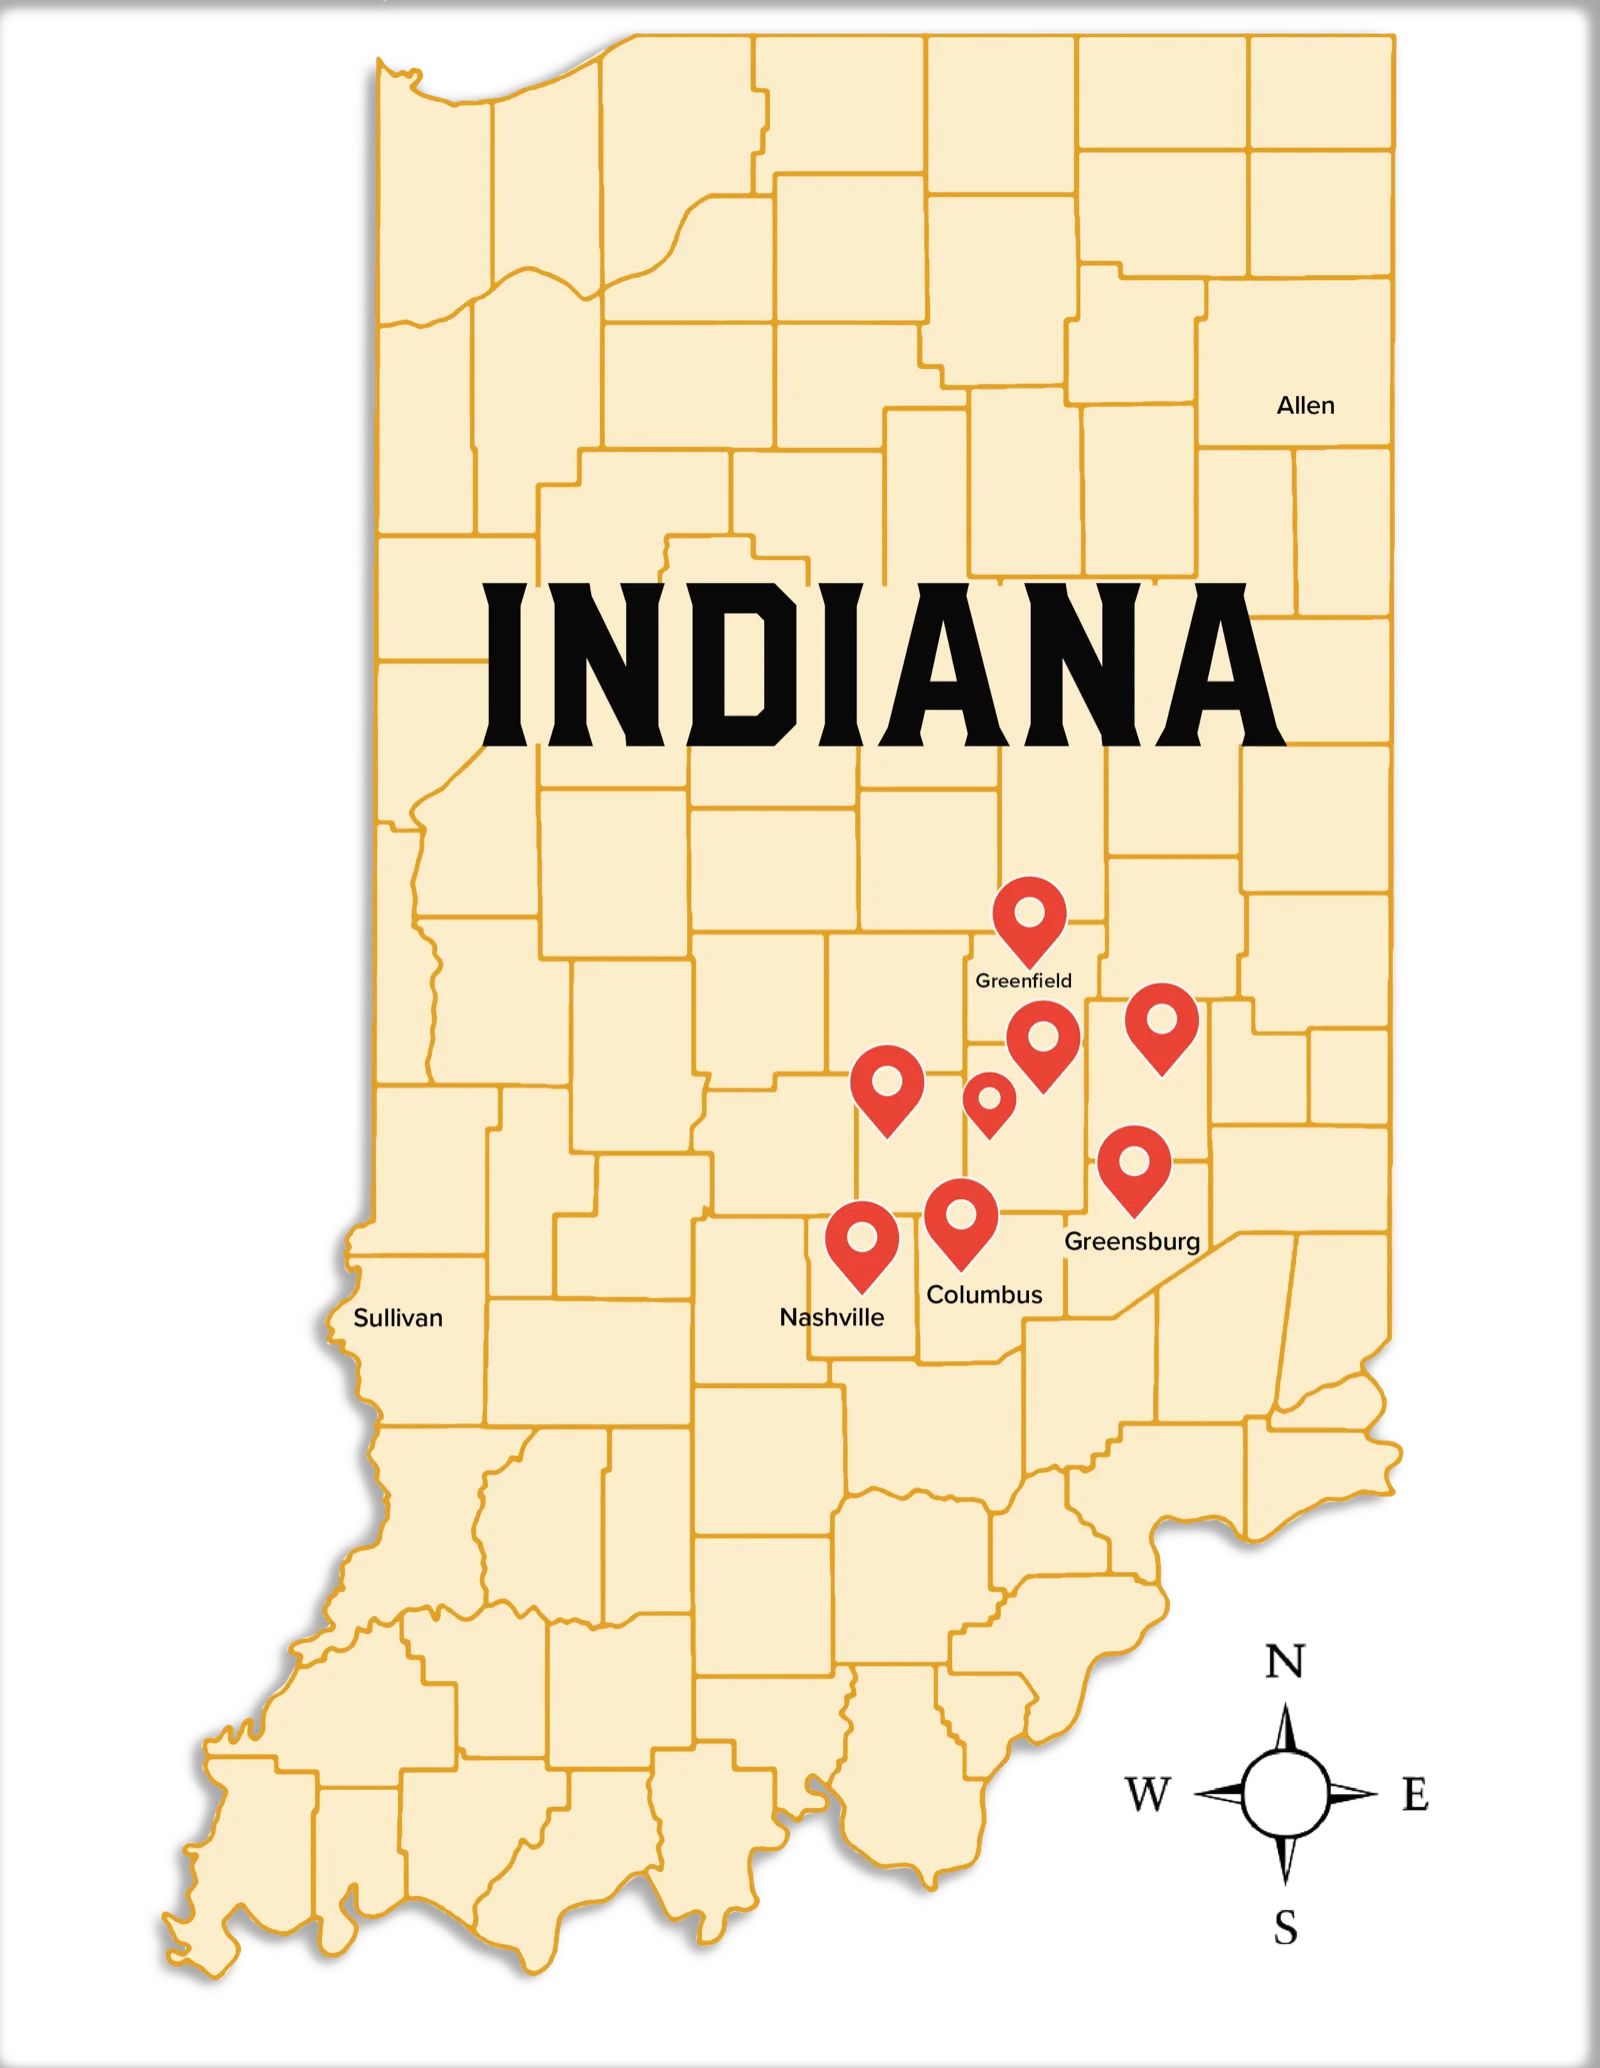
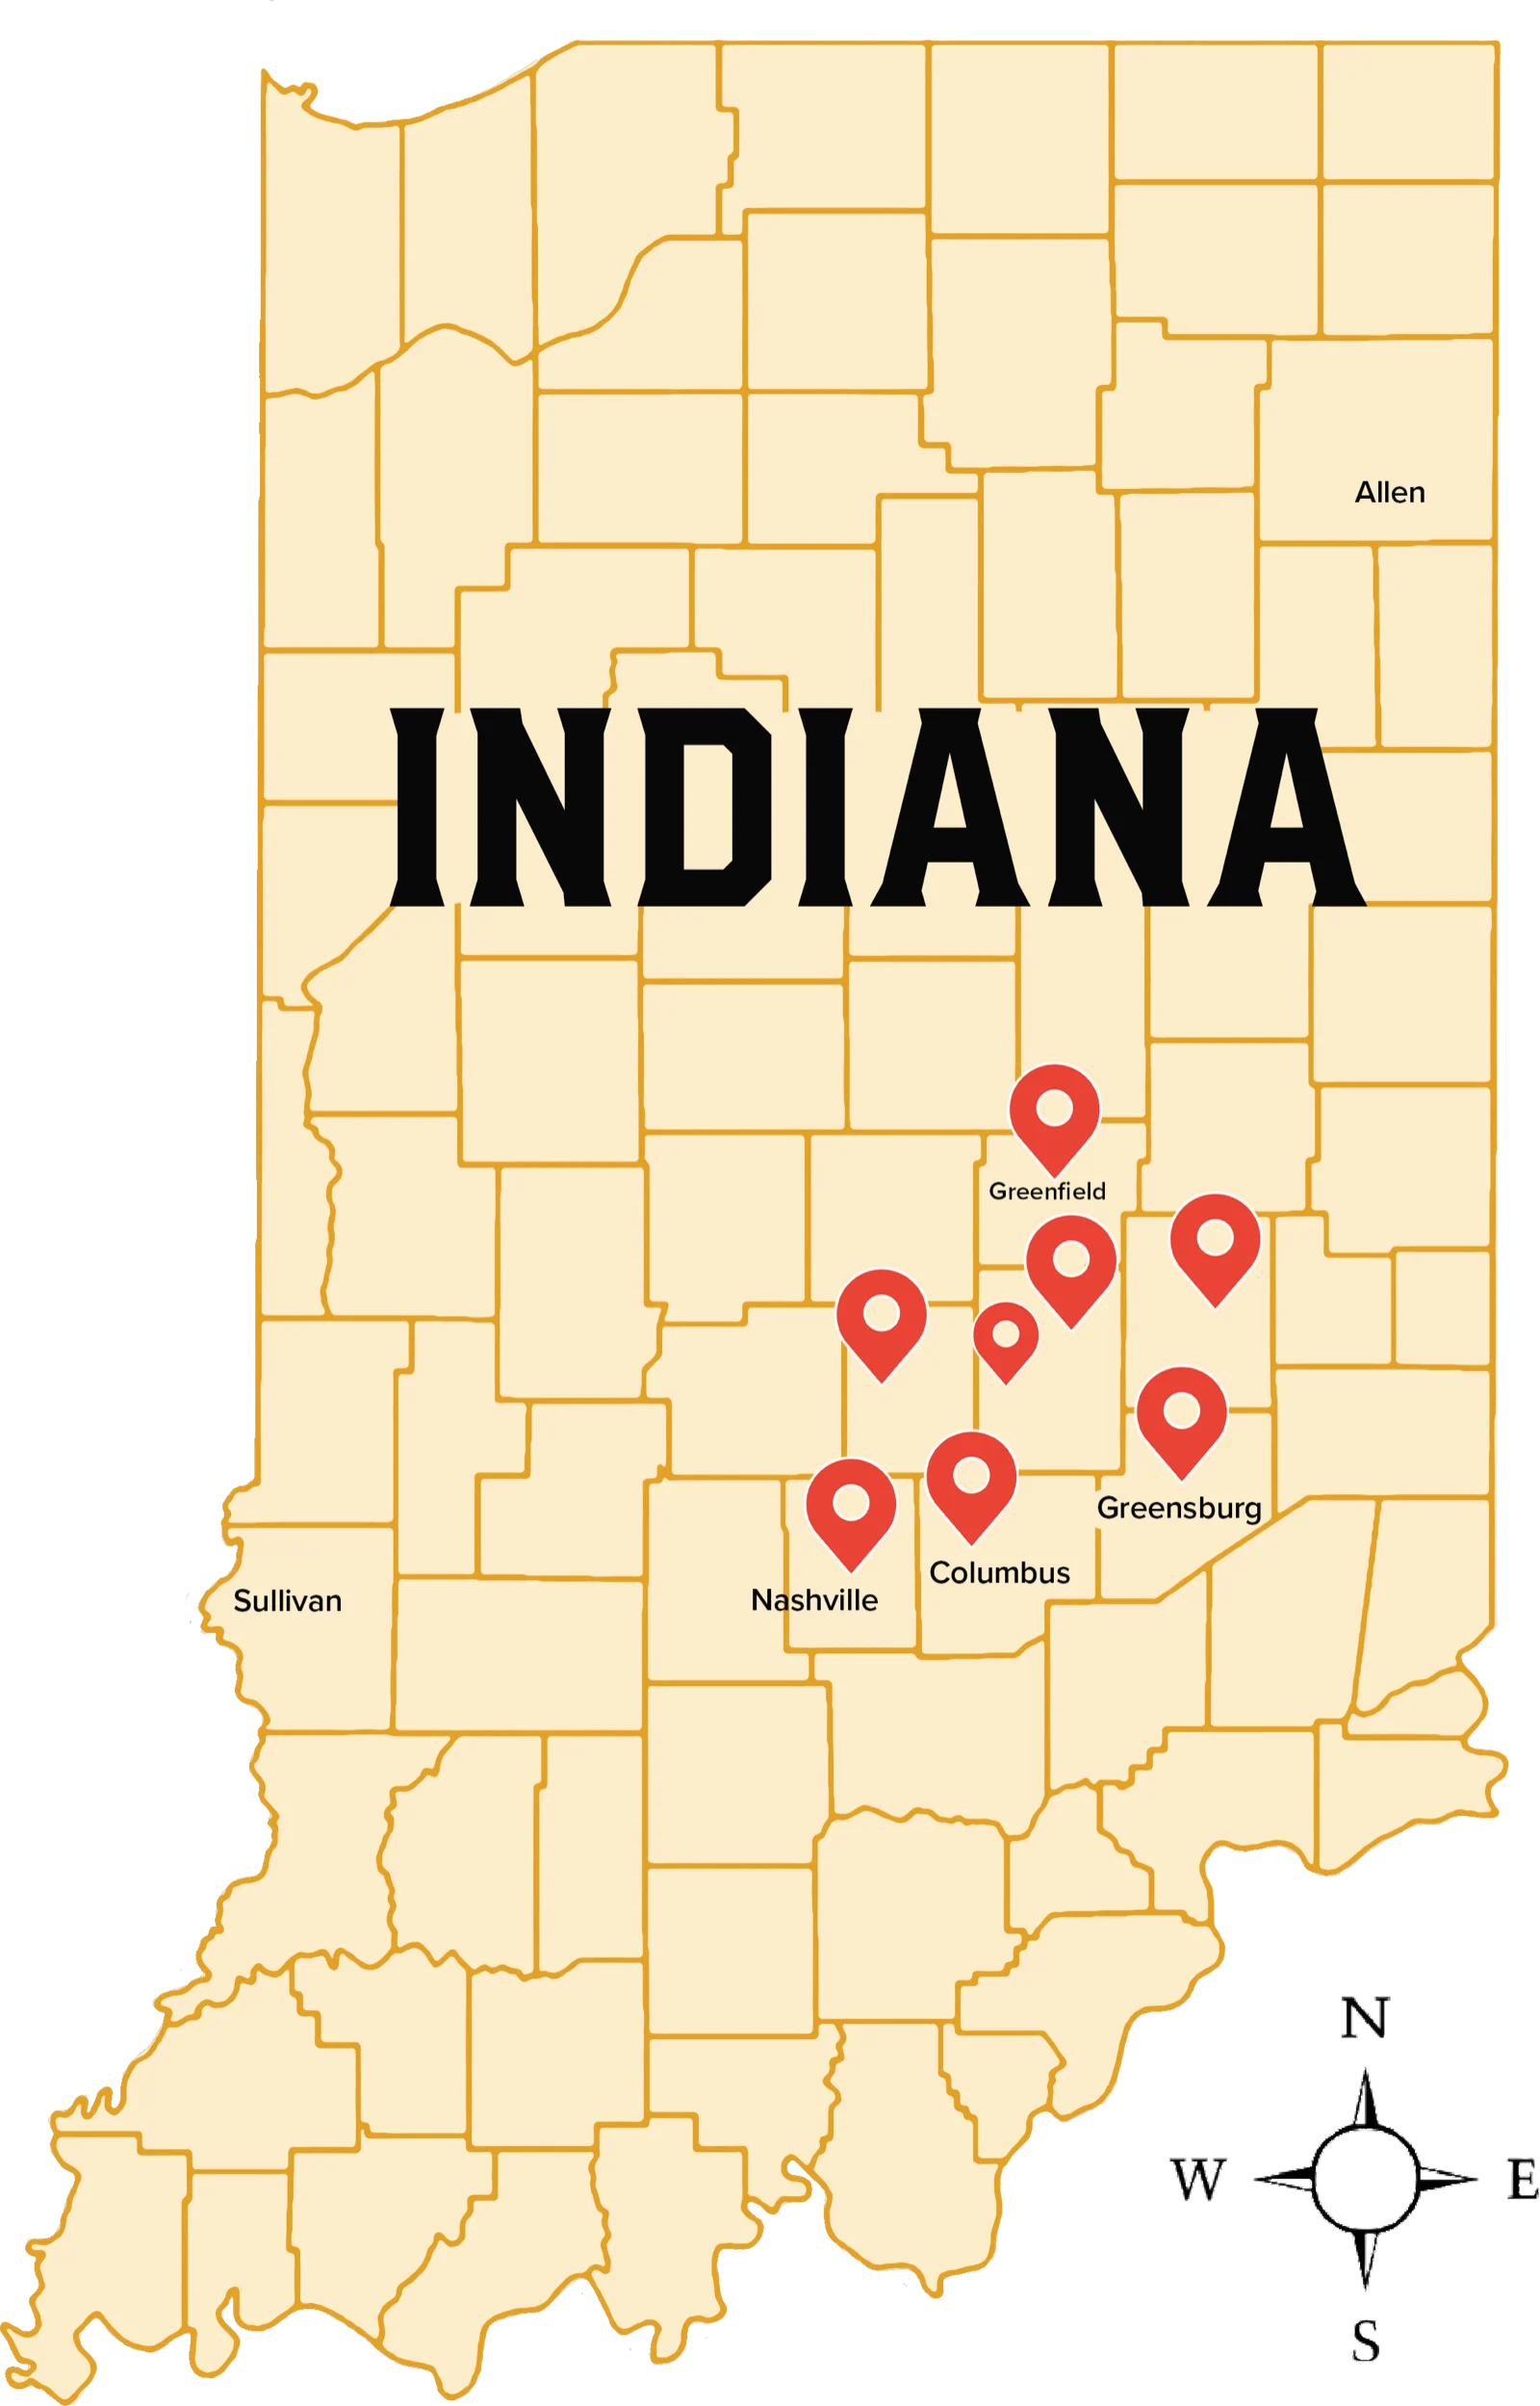
Remove map drop-shadow halo; purge Fayette from copy/schema sitewide
- Crop service-area map and strip baked-in dark halo (transparent bg)
- Update map dimensions (1600x2499) on service-area and services pages
- Replace Fayette County with Brown County in areaServed schema (index, contact)
- Update FAQ area copy + schema on contact and faq pages
- Fix 'nine counties' -> 'eight counties' in service-area metadata
- Ignore large raw project-media drops

diff --git a/contact.html b/contact.html
@@ -123,7 +123,7 @@
 
         <details class="faq-item">
           <summary>What areas do you cover?</summary>
-          <p>Shelbyville and all of Shelby County, plus the surrounding counties roughly an hour out, including Hancock, Decatur, Rush, Johnson, Bartholomew, Fayette, and Ripley. If you're close to that range and don't see your town, give us a call anyway.</p>
+          <p>Shelbyville and all of Shelby County, plus the surrounding counties roughly an hour out, including Hancock, Decatur, Rush, Johnson, Bartholomew, Ripley, and Brown. If you're close to that range and don't see your town, give us a call anyway.</p>
         </details>
 
         <details class="faq-item">
@@ -276,7 +276,7 @@
       { "@type": "AdministrativeArea", "name": "Hancock County, Indiana" },
       { "@type": "AdministrativeArea", "name": "Johnson County, Indiana" },
       { "@type": "AdministrativeArea", "name": "Decatur County, Indiana" },
-      { "@type": "AdministrativeArea", "name": "Fayette County, Indiana" },
+      { "@type": "AdministrativeArea", "name": "Brown County, Indiana" },
       { "@type": "AdministrativeArea", "name": "Rush County, Indiana" },
       { "@type": "AdministrativeArea", "name": "Ripley County, Indiana" },
       { "@type": "AdministrativeArea", "name": "Bartholomew County, Indiana" },
@@ -288,7 +288,7 @@
   }
   </script>
   <script type="application/ld+json">
-  {"@context":"https://schema.org","@type":"FAQPage","mainEntity":[{"@type":"Question","name":"How fast can you get out for an estimate?","acceptedAnswer":{"@type":"Answer","text":"Most of the time we can walk the property within a few days of your call. Reach out and we'll find a time that works."}},{"@type":"Question","name":"Do you charge for an estimate?","acceptedAnswer":{"@type":"Answer","text":"No. Estimates are free and on-site. We walk the property, talk through the work, and put clear numbers in writing before any equipment moves."}},{"@type":"Question","name":"What areas do you cover?","acceptedAnswer":{"@type":"Answer","text":"Shelbyville and all of Shelby County, plus the surrounding counties roughly an hour out, including Hancock, Decatur, Rush, Johnson, Bartholomew, Fayette, and Ripley. If you're close to that range and don't see your town, give us a call anyway."}},{"@type":"Question","name":"How do you take payment?","acceptedAnswer":{"@type":"Answer","text":"Cash, check, credit, and debit. Financing is available through Joist for jobs that need flexible terms. Ask when you call."}},{"@type":"Question","name":"When should I reach out to get on the schedule?","acceptedAnswer":{"@type":"Answer","text":"The sooner the better, especially spring through fall. Drainage and culvert work can usually be fit in faster. Call and we'll tell you straight where the schedule stands."}}]}
+  {"@context":"https://schema.org","@type":"FAQPage","mainEntity":[{"@type":"Question","name":"How fast can you get out for an estimate?","acceptedAnswer":{"@type":"Answer","text":"Most of the time we can walk the property within a few days of your call. Reach out and we'll find a time that works."}},{"@type":"Question","name":"Do you charge for an estimate?","acceptedAnswer":{"@type":"Answer","text":"No. Estimates are free and on-site. We walk the property, talk through the work, and put clear numbers in writing before any equipment moves."}},{"@type":"Question","name":"What areas do you cover?","acceptedAnswer":{"@type":"Answer","text":"Shelbyville and all of Shelby County, plus the surrounding counties roughly an hour out, including Hancock, Decatur, Rush, Johnson, Bartholomew, Ripley, and Brown. If you're close to that range and don't see your town, give us a call anyway."}},{"@type":"Question","name":"How do you take payment?","acceptedAnswer":{"@type":"Answer","text":"Cash, check, credit, and debit. Financing is available through Joist for jobs that need flexible terms. Ask when you call."}},{"@type":"Question","name":"When should I reach out to get on the schedule?","acceptedAnswer":{"@type":"Answer","text":"The sooner the better, especially spring through fall. Drainage and culvert work can usually be fit in faster. Call and we'll tell you straight where the schedule stands."}}]}
   </script>
 
 </body>

diff --git a/service-area.html b/service-area.html
@@ -4,12 +4,12 @@
   <meta charset="UTF-8" />
   <meta name="viewport" content="width=device-width, initial-scale=1.0" />
   <title>Service Area | Hoosier Dirt &amp; Gravel — Shelby County &amp; Central Indiana</title>
-  <meta name="description" content="Hoosier Dirt &amp; Gravel serves Shelby County and surrounding central Indiana — about one hour out from Shelbyville across nine counties. Call [phone redacted]." />
+  <meta name="description" content="Hoosier Dirt &amp; Gravel serves Shelby County and surrounding central Indiana — about one hour out from Shelbyville across eight counties. Call [phone redacted]." />
 
   <!-- Open Graph (link previews when shared on social / messaging) -->
   <meta property="og:type" content="website" />
   <meta property="og:title" content="Service Area | Hoosier Dirt &amp; Gravel" />
-  <meta property="og:description" content="Serving Shelby County and surrounding central Indiana — about one hour out from Shelbyville across nine counties." />
+  <meta property="og:description" content="Serving Shelby County and surrounding central Indiana — about one hour out from Shelbyville across eight counties." />
   <meta property="og:image" content="https://hoosierdirtandgravel.com/images/excavator-grading-gravel-driveway-central-indiana.webp" />
 
   <link rel="icon" type="image/png" href="images/favicon.png" />
@@ -74,7 +74,7 @@
           src="images/hoosier-service-area-map-central-indiana.webp"
           alt="Map of the Hoosier Dirt &amp; Gravel service area covering Shelbyville, Shelby County, and surrounding central Indiana counties"
           width="1600"
-          height="2068"
+          height="2499"
           loading="lazy"
           decoding="async"
         />

diff --git a/faq.html b/faq.html
@@ -66,7 +66,7 @@
         <details class="faq-item"><summary>Do you charge for an estimate?</summary><p>No. Estimates are free and on-site. We walk the property, talk through the work, and put clear numbers in writing before any equipment moves.</p></details>
         <details class="faq-item"><summary>How fast can you get out for an estimate?</summary><p>Most of the time we can walk the property within a few days of your call. Reach out and we'll find a time that works.</p></details>
         <details class="faq-item"><summary>When should I reach out to get on the schedule?</summary><p>The sooner the better, especially spring through fall. Drainage and culvert work can usually be fit in faster. Call and we'll tell you straight where the schedule stands.</p></details>
-        <details class="faq-item"><summary>What areas do you cover?</summary><p>Shelbyville and all of Shelby County, plus the surrounding counties roughly an hour out, including Hancock, Decatur, Rush, Johnson, Bartholomew, Fayette, and Ripley. If you're close to that range and don't see your town, give us a call anyway.</p></details>
+        <details class="faq-item"><summary>What areas do you cover?</summary><p>Shelbyville and all of Shelby County, plus the surrounding counties roughly an hour out, including Hancock, Decatur, Rush, Johnson, Bartholomew, Ripley, and Brown. If you're close to that range and don't see your town, give us a call anyway.</p></details>
         <details class="faq-item"><summary>How do you take payment?</summary><p>Cash, check, credit, and debit. Financing is available through Joist for jobs that need flexible terms. Ask when you call.</p></details>
         <details class="faq-item"><summary>Do you offer financing?</summary><p>Yes. Project financing is available through the Joist platform for jobs that benefit from flexible payment terms. Ask about financing options when you call.</p></details>
         <details class="faq-item"><summary>What equipment do you operate?</summary><p>We own and operate a mini excavator, mini skid steer, and full skid steer, sized for both tight-access residential work and larger site prep jobs. No rental markups are passed to your project.</p></details>
@@ -229,7 +229,7 @@
     })();
   </script>
   <script type="application/ld+json">
-  {"@context":"https://schema.org","@type":"FAQPage","mainEntity":[{"@type":"Question","name":"Do you charge for an estimate?","acceptedAnswer":{"@type":"Answer","text":"No. Estimates are free and on-site. We walk the property, talk through the work, and put clear numbers in writing before any equipment moves."}},{"@type":"Question","name":"How fast can you get out for an estimate?","acceptedAnswer":{"@type":"Answer","text":"Most of the time we can walk the property within a few days of your call. Reach out and we'll find a time that works."}},{"@type":"Question","name":"When should I reach out to get on the schedule?","acceptedAnswer":{"@type":"Answer","text":"The sooner the better, especially spring through fall. Drainage and culvert work can usually be fit in faster. Call and we'll tell you straight where the schedule stands."}},{"@type":"Question","name":"What areas do you cover?","acceptedAnswer":{"@type":"Answer","text":"Shelbyville and all of Shelby County, plus the surrounding counties roughly an hour out, including Hancock, Decatur, Rush, Johnson, Bartholomew, Fayette, and Ripley. If you're close to that range and don't see your town, give us a call anyway."}},{"@type":"Question","name":"How do you take payment?","acceptedAnswer":{"@type":"Answer","text":"Cash, check, credit, and debit. Financing is available through Joist for jobs that need flexible terms. Ask when you call."}},{"@type":"Question","name":"Do you offer financing?","acceptedAnswer":{"@type":"Answer","text":"Yes. Project financing is available through the Joist platform for jobs that benefit from flexible payment terms. Ask about financing options when you call."}},{"@type":"Question","name":"What equipment do you operate?","acceptedAnswer":{"@type":"Answer","text":"We own and operate a mini excavator, mini skid steer, and full skid steer, sized for both tight-access residential work and larger site prep jobs. No rental markups are passed to your project."}},{"@type":"Question","name":"Do you handle commercial projects?","acceptedAnswer":{"@type":"Answer","text":"Our primary focus is residential and rural property work. Light commercial site prep and grading projects are welcome on a case-by-case basis."}},{"@type":"Question","name":"Do you install septic systems?","acceptedAnswer":{"@type":"Answer","text":"No. Our current work covers driveways, site prep, drainage, excavation, and land clearing. Septic system installation isn't part of our service offering."}},{"@type":"Question","name":"Do you work in the winter?","acceptedAnswer":{"@type":"Answer","text":"We work year-round. Heavier dirt work slows during deep freezes, but culvert installation, drainage corrections, and storm-related repairs are available through the cold months."}},{"@type":"Question","name":"How much does a gravel driveway cost?","acceptedAnswer":{"@type":"Answer","text":"It depends on length, the shape the base is in, how much drainage work it needs, and how easy the site is to get equipment onto. We give you a free on-site estimate with materials, timeline, and total cost in writing before any work starts."}},{"@type":"Question","name":"How long does a new gravel driveway take?","acceptedAnswer":{"@type":"Answer","text":"Most residential driveways finish in one to three days. Longer farm lanes or full installs from scratch can run four to seven days depending on length and access."}},{"@type":"Question","name":"Can you fix my existing driveway instead of replacing it?","acceptedAnswer":{"@type":"Answer","text":"Often, yes. If the base is still sound, regrading and fresh rock can bring a rutted or washed-out drive back. If the base has failed underneath, we'll tell you straight and walk you through what it'll take to do it right."}},{"@type":"Question","name":"What kind of gravel do you use?","acceptedAnswer":{"@type":"Answer","text":"That comes down to your traffic, your grade, and the look you're after. We'll talk through the options on-site and recommend what holds up best for your property."}},{"@type":"Question","name":"Do I need a culvert with my driveway?","acceptedAnswer":{"@type":"Answer","text":"If your drive crosses a ditch or sits where water needs to pass under it, yes. We size and place the culvert as part of the driveway work so the drainage is handled from day one."}},{"@type":"Question","name":"How long does site prep take?","acceptedAnswer":{"@type":"Answer","text":"A simple pad or small grading job usually runs one to three days. Full site prep for a new build with rough and final grade can run one to two weeks depending on the size of the footprint and the conditions."}},{"@type":"Question","name":"Do you handle both rough grading and final grade?","acceptedAnswer":{"@type":"Answer","text":"Yes. We can take a site from rough grade at the start of a build all the way to final grade ahead of concrete, asphalt, or landscaping. A lot of outfits skip the finish work; we don't."}},{"@type":"Question","name":"Can you prep a pad for a pole barn or outbuilding?","acceptedAnswer":{"@type":"Answer","text":"That's a big part of what we do. We level and prep the pad, plan the drainage into the grade, and set it up so the build sits right and water moves away from it."}},{"@type":"Question","name":"Will you coordinate with my builder or concrete crew?","acceptedAnswer":{"@type":"Answer","text":"Yes. Site prep timing usually ties into framing, concrete, and utility schedules. We'll work with your builder or GC to line the grade up so it's ready when the next crew shows up."}},{"@type":"Question","name":"Why does the grade matter so much?","acceptedAnswer":{"@type":"Answer","text":"A bad grade shows up the first time it rains, the first time a slab cracks, the first time a foundation shifts. Getting the grade and drainage right at the start prevents the expensive problems that surface years later."}},{"@type":"Question","name":"How do you figure out what's causing my drainage problem?","acceptedAnswer":{"@type":"Answer","text":"We walk the property, ideally during or right after a rain, and track where the water is actually coming from and where it's going. The wet spot you see is usually downhill from the real problem. We find the cause before we move any dirt."}},{"@type":"Question","name":"How long does drainage work take?","acceptedAnswer":{"@type":"Answer","text":"A simple correction runs one to three days. Larger systems with multiple culverts or full tile repair can take one to two weeks depending on what we find."}},{"@type":"Question","name":"Can you fix standing water in my yard?","acceptedAnswer":{"@type":"Answer","text":"Yes. Standing water usually traces back to grade. We regrade and shape the surface to move water to a proper drainage point so the same wet spots stop coming back every year."}},{"@type":"Question","name":"Do you do agricultural tile repair?","acceptedAnswer":{"@type":"Answer","text":"Yes. We handle the small to medium-scope field tile repair work, including locating breaks, replacing failed sections, and fixing outlets where tile meets a ditch or creek. It's the kind of repair the big tile contractors usually don't want to take on."}},{"@type":"Question","name":"Is drainage work seasonal?","acceptedAnswer":{"@type":"Answer","text":"We work drainage year-round. Soggy or frozen ground can push scheduling for quality reasons, but culvert and drainage corrections don't wait for spring, and neither do we."}},{"@type":"Question","name":"What kind of excavation work do you take on?","acceptedAnswer":{"@type":"Answer","text":"Trenching for utilities and drainage lines, foundation prep, earthmoving, debris removal, and tight-access work. Residential and rural property, plus smaller jobs that the larger regional outfits tend to pass on."}},{"@type":"Question","name":"How long does an excavation job take?","acceptedAnswer":{"@type":"Answer","text":"Most residential excavation runs one to three days. Foundation prep and larger projects can take four to seven days depending on scope and site conditions."}},{"@type":"Question","name":"Do you call in utility locates before you dig?","acceptedAnswer":{"@type":"Answer","text":"Yes. Indiana 811 marks buried utilities before any equipment moves. We coordinate the call and schedule the work around the markings so nothing underground gets hit."}},{"@type":"Question","name":"Can you get into tight spaces?","acceptedAnswer":{"@type":"Answer","text":"That's where the mini excavator earns its keep. It gets into spots a 40,000-pound machine can't operate in, and the skid steer handles the volume work. The right machine for the access you've got."}},{"@type":"Question","name":"Do you do utility line work?","acceptedAnswer":{"@type":"Answer","text":"We handle trenching for water, drainage, and service lines. Tell us what the project involves on the call and we'll let you know straight whether it's a fit."}},{"@type":"Question","name":"What kind of clearing do you do?","acceptedAnswer":{"@type":"Answer","text":"Light brush management and clearing with a skid steer and brush hook. Lot clearing, opening up overgrown fence lines, trail and access lanes, and ground prep ahead of new construction on small to several-acre properties."}},{"@type":"Question","name":"Do you do forestry mulching?","acceptedAnswer":{"@type":"Answer","text":"No. We handle light brush and overgrowth with a skid steer brush hook, which is the right tool for manageable acreage and fence lines. Heavy forestry mulching is a different job and a different machine."}},{"@type":"Question","name":"How long does a clearing job take?","acceptedAnswer":{"@type":"Answer","text":"Most clearing jobs finish in one to two days. Larger multi-acre work or heavy fence line clearing can run three to five days."}},{"@type":"Question","name":"Will you tear up the rest of my property getting to the work?","acceptedAnswer":{"@type":"Answer","text":"No. We plan equipment access ahead of time to keep lawns, gardens, and existing landscape intact. Protecting what stays is as much a part of the job as removing what goes."}},{"@type":"Question","name":"Can you clear a lot before I build?","acceptedAnswer":{"@type":"Answer","text":"Yes. We clear brush and saplings and prep the ground so a building site, pad, or outbuilding location is ready for what comes next."}}]}
+  {"@context":"https://schema.org","@type":"FAQPage","mainEntity":[{"@type":"Question","name":"Do you charge for an estimate?","acceptedAnswer":{"@type":"Answer","text":"No. Estimates are free and on-site. We walk the property, talk through the work, and put clear numbers in writing before any equipment moves."}},{"@type":"Question","name":"How fast can you get out for an estimate?","acceptedAnswer":{"@type":"Answer","text":"Most of the time we can walk the property within a few days of your call. Reach out and we'll find a time that works."}},{"@type":"Question","name":"When should I reach out to get on the schedule?","acceptedAnswer":{"@type":"Answer","text":"The sooner the better, especially spring through fall. Drainage and culvert work can usually be fit in faster. Call and we'll tell you straight where the schedule stands."}},{"@type":"Question","name":"What areas do you cover?","acceptedAnswer":{"@type":"Answer","text":"Shelbyville and all of Shelby County, plus the surrounding counties roughly an hour out, including Hancock, Decatur, Rush, Johnson, Bartholomew, Ripley, and Brown. If you're close to that range and don't see your town, give us a call anyway."}},{"@type":"Question","name":"How do you take payment?","acceptedAnswer":{"@type":"Answer","text":"Cash, check, credit, and debit. Financing is available through Joist for jobs that need flexible terms. Ask when you call."}},{"@type":"Question","name":"Do you offer financing?","acceptedAnswer":{"@type":"Answer","text":"Yes. Project financing is available through the Joist platform for jobs that benefit from flexible payment terms. Ask about financing options when you call."}},{"@type":"Question","name":"What equipment do you operate?","acceptedAnswer":{"@type":"Answer","text":"We own and operate a mini excavator, mini skid steer, and full skid steer, sized for both tight-access residential work and larger site prep jobs. No rental markups are passed to your project."}},{"@type":"Question","name":"Do you handle commercial projects?","acceptedAnswer":{"@type":"Answer","text":"Our primary focus is residential and rural property work. Light commercial site prep and grading projects are welcome on a case-by-case basis."}},{"@type":"Question","name":"Do you install septic systems?","acceptedAnswer":{"@type":"Answer","text":"No. Our current work covers driveways, site prep, drainage, excavation, and land clearing. Septic system installation isn't part of our service offering."}},{"@type":"Question","name":"Do you work in the winter?","acceptedAnswer":{"@type":"Answer","text":"We work year-round. Heavier dirt work slows during deep freezes, but culvert installation, drainage corrections, and storm-related repairs are available through the cold months."}},{"@type":"Question","name":"How much does a gravel driveway cost?","acceptedAnswer":{"@type":"Answer","text":"It depends on length, the shape the base is in, how much drainage work it needs, and how easy the site is to get equipment onto. We give you a free on-site estimate with materials, timeline, and total cost in writing before any work starts."}},{"@type":"Question","name":"How long does a new gravel driveway take?","acceptedAnswer":{"@type":"Answer","text":"Most residential driveways finish in one to three days. Longer farm lanes or full installs from scratch can run four to seven days depending on length and access."}},{"@type":"Question","name":"Can you fix my existing driveway instead of replacing it?","acceptedAnswer":{"@type":"Answer","text":"Often, yes. If the base is still sound, regrading and fresh rock can bring a rutted or washed-out drive back. If the base has failed underneath, we'll tell you straight and walk you through what it'll take to do it right."}},{"@type":"Question","name":"What kind of gravel do you use?","acceptedAnswer":{"@type":"Answer","text":"That comes down to your traffic, your grade, and the look you're after. We'll talk through the options on-site and recommend what holds up best for your property."}},{"@type":"Question","name":"Do I need a culvert with my driveway?","acceptedAnswer":{"@type":"Answer","text":"If your drive crosses a ditch or sits where water needs to pass under it, yes. We size and place the culvert as part of the driveway work so the drainage is handled from day one."}},{"@type":"Question","name":"How long does site prep take?","acceptedAnswer":{"@type":"Answer","text":"A simple pad or small grading job usually runs one to three days. Full site prep for a new build with rough and final grade can run one to two weeks depending on the size of the footprint and the conditions."}},{"@type":"Question","name":"Do you handle both rough grading and final grade?","acceptedAnswer":{"@type":"Answer","text":"Yes. We can take a site from rough grade at the start of a build all the way to final grade ahead of concrete, asphalt, or landscaping. A lot of outfits skip the finish work; we don't."}},{"@type":"Question","name":"Can you prep a pad for a pole barn or outbuilding?","acceptedAnswer":{"@type":"Answer","text":"That's a big part of what we do. We level and prep the pad, plan the drainage into the grade, and set it up so the build sits right and water moves away from it."}},{"@type":"Question","name":"Will you coordinate with my builder or concrete crew?","acceptedAnswer":{"@type":"Answer","text":"Yes. Site prep timing usually ties into framing, concrete, and utility schedules. We'll work with your builder or GC to line the grade up so it's ready when the next crew shows up."}},{"@type":"Question","name":"Why does the grade matter so much?","acceptedAnswer":{"@type":"Answer","text":"A bad grade shows up the first time it rains, the first time a slab cracks, the first time a foundation shifts. Getting the grade and drainage right at the start prevents the expensive problems that surface years later."}},{"@type":"Question","name":"How do you figure out what's causing my drainage problem?","acceptedAnswer":{"@type":"Answer","text":"We walk the property, ideally during or right after a rain, and track where the water is actually coming from and where it's going. The wet spot you see is usually downhill from the real problem. We find the cause before we move any dirt."}},{"@type":"Question","name":"How long does drainage work take?","acceptedAnswer":{"@type":"Answer","text":"A simple correction runs one to three days. Larger systems with multiple culverts or full tile repair can take one to two weeks depending on what we find."}},{"@type":"Question","name":"Can you fix standing water in my yard?","acceptedAnswer":{"@type":"Answer","text":"Yes. Standing water usually traces back to grade. We regrade and shape the surface to move water to a proper drainage point so the same wet spots stop coming back every year."}},{"@type":"Question","name":"Do you do agricultural tile repair?","acceptedAnswer":{"@type":"Answer","text":"Yes. We handle the small to medium-scope field tile repair work, including locating breaks, replacing failed sections, and fixing outlets where tile meets a ditch or creek. It's the kind of repair the big tile contractors usually don't want to take on."}},{"@type":"Question","name":"Is drainage work seasonal?","acceptedAnswer":{"@type":"Answer","text":"We work drainage year-round. Soggy or frozen ground can push scheduling for quality reasons, but culvert and drainage corrections don't wait for spring, and neither do we."}},{"@type":"Question","name":"What kind of excavation work do you take on?","acceptedAnswer":{"@type":"Answer","text":"Trenching for utilities and drainage lines, foundation prep, earthmoving, debris removal, and tight-access work. Residential and rural property, plus smaller jobs that the larger regional outfits tend to pass on."}},{"@type":"Question","name":"How long does an excavation job take?","acceptedAnswer":{"@type":"Answer","text":"Most residential excavation runs one to three days. Foundation prep and larger projects can take four to seven days depending on scope and site conditions."}},{"@type":"Question","name":"Do you call in utility locates before you dig?","acceptedAnswer":{"@type":"Answer","text":"Yes. Indiana 811 marks buried utilities before any equipment moves. We coordinate the call and schedule the work around the markings so nothing underground gets hit."}},{"@type":"Question","name":"Can you get into tight spaces?","acceptedAnswer":{"@type":"Answer","text":"That's where the mini excavator earns its keep. It gets into spots a 40,000-pound machine can't operate in, and the skid steer handles the volume work. The right machine for the access you've got."}},{"@type":"Question","name":"Do you do utility line work?","acceptedAnswer":{"@type":"Answer","text":"We handle trenching for water, drainage, and service lines. Tell us what the project involves on the call and we'll let you know straight whether it's a fit."}},{"@type":"Question","name":"What kind of clearing do you do?","acceptedAnswer":{"@type":"Answer","text":"Light brush management and clearing with a skid steer and brush hook. Lot clearing, opening up overgrown fence lines, trail and access lanes, and ground prep ahead of new construction on small to several-acre properties."}},{"@type":"Question","name":"Do you do forestry mulching?","acceptedAnswer":{"@type":"Answer","text":"No. We handle light brush and overgrowth with a skid steer brush hook, which is the right tool for manageable acreage and fence lines. Heavy forestry mulching is a different job and a different machine."}},{"@type":"Question","name":"How long does a clearing job take?","acceptedAnswer":{"@type":"Answer","text":"Most clearing jobs finish in one to two days. Larger multi-acre work or heavy fence line clearing can run three to five days."}},{"@type":"Question","name":"Will you tear up the rest of my property getting to the work?","acceptedAnswer":{"@type":"Answer","text":"No. We plan equipment access ahead of time to keep lawns, gardens, and existing landscape intact. Protecting what stays is as much a part of the job as removing what goes."}},{"@type":"Question","name":"Can you clear a lot before I build?","acceptedAnswer":{"@type":"Answer","text":"Yes. We clear brush and saplings and prep the ground so a building site, pad, or outbuilding location is ready for what comes next."}}]}
   </script>
 
 </body>

diff --git a/index.html b/index.html
@@ -510,7 +510,7 @@
       { "@type": "AdministrativeArea", "name": "Hancock County, Indiana" },
       { "@type": "AdministrativeArea", "name": "Johnson County, Indiana" },
       { "@type": "AdministrativeArea", "name": "Decatur County, Indiana" },
-      { "@type": "AdministrativeArea", "name": "Fayette County, Indiana" },
+      { "@type": "AdministrativeArea", "name": "Brown County, Indiana" },
       { "@type": "AdministrativeArea", "name": "Rush County, Indiana" },
       { "@type": "AdministrativeArea", "name": "Ripley County, Indiana" },
       { "@type": "AdministrativeArea", "name": "Bartholomew County, Indiana" },

diff --git a/services.html b/services.html
@@ -256,7 +256,7 @@
         src="images/hoosier-service-area-map-central-indiana.webp"
         alt="Map of the Hoosier Dirt &amp; Gravel service area covering Shelbyville, Shelby County, and surrounding central Indiana counties"
         width="1600"
-        height="2068"
+        height="2499"
         loading="lazy"
         decoding="async"
       />